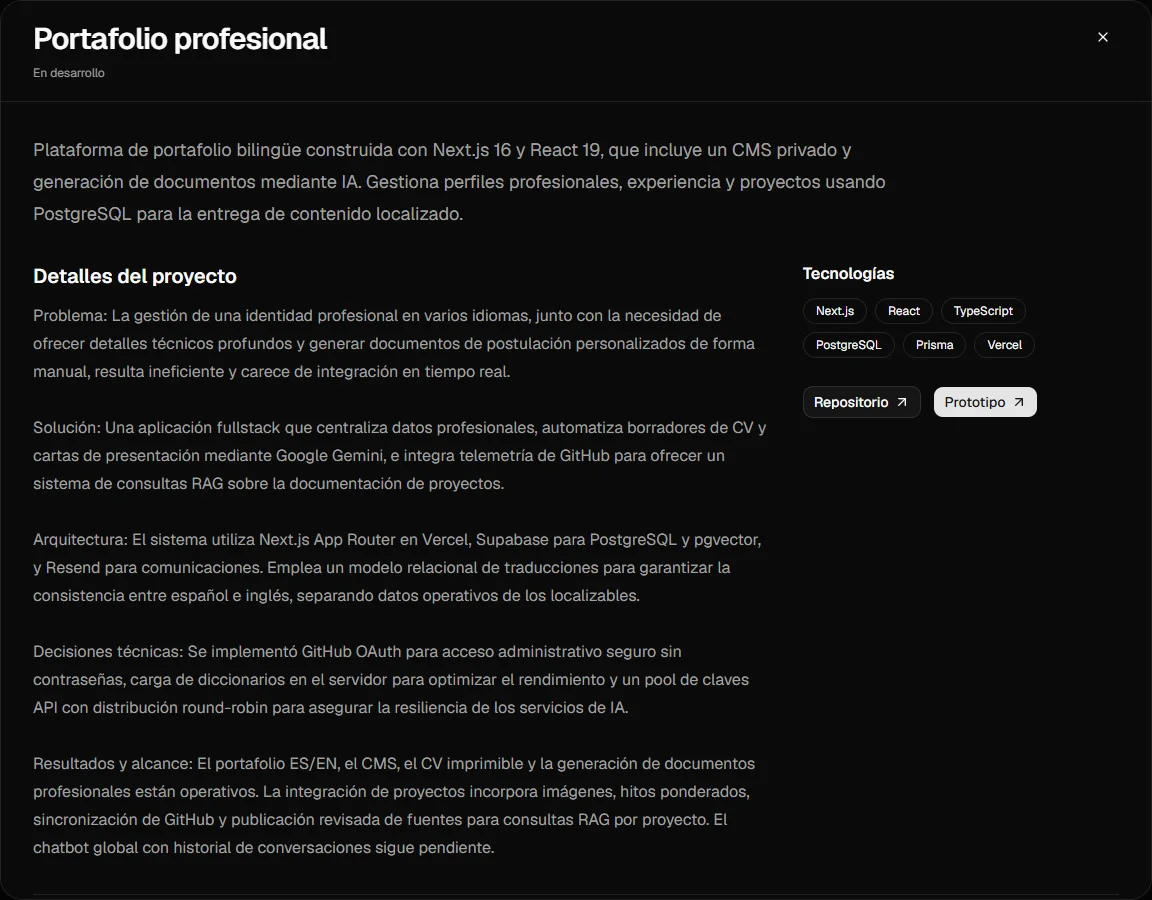
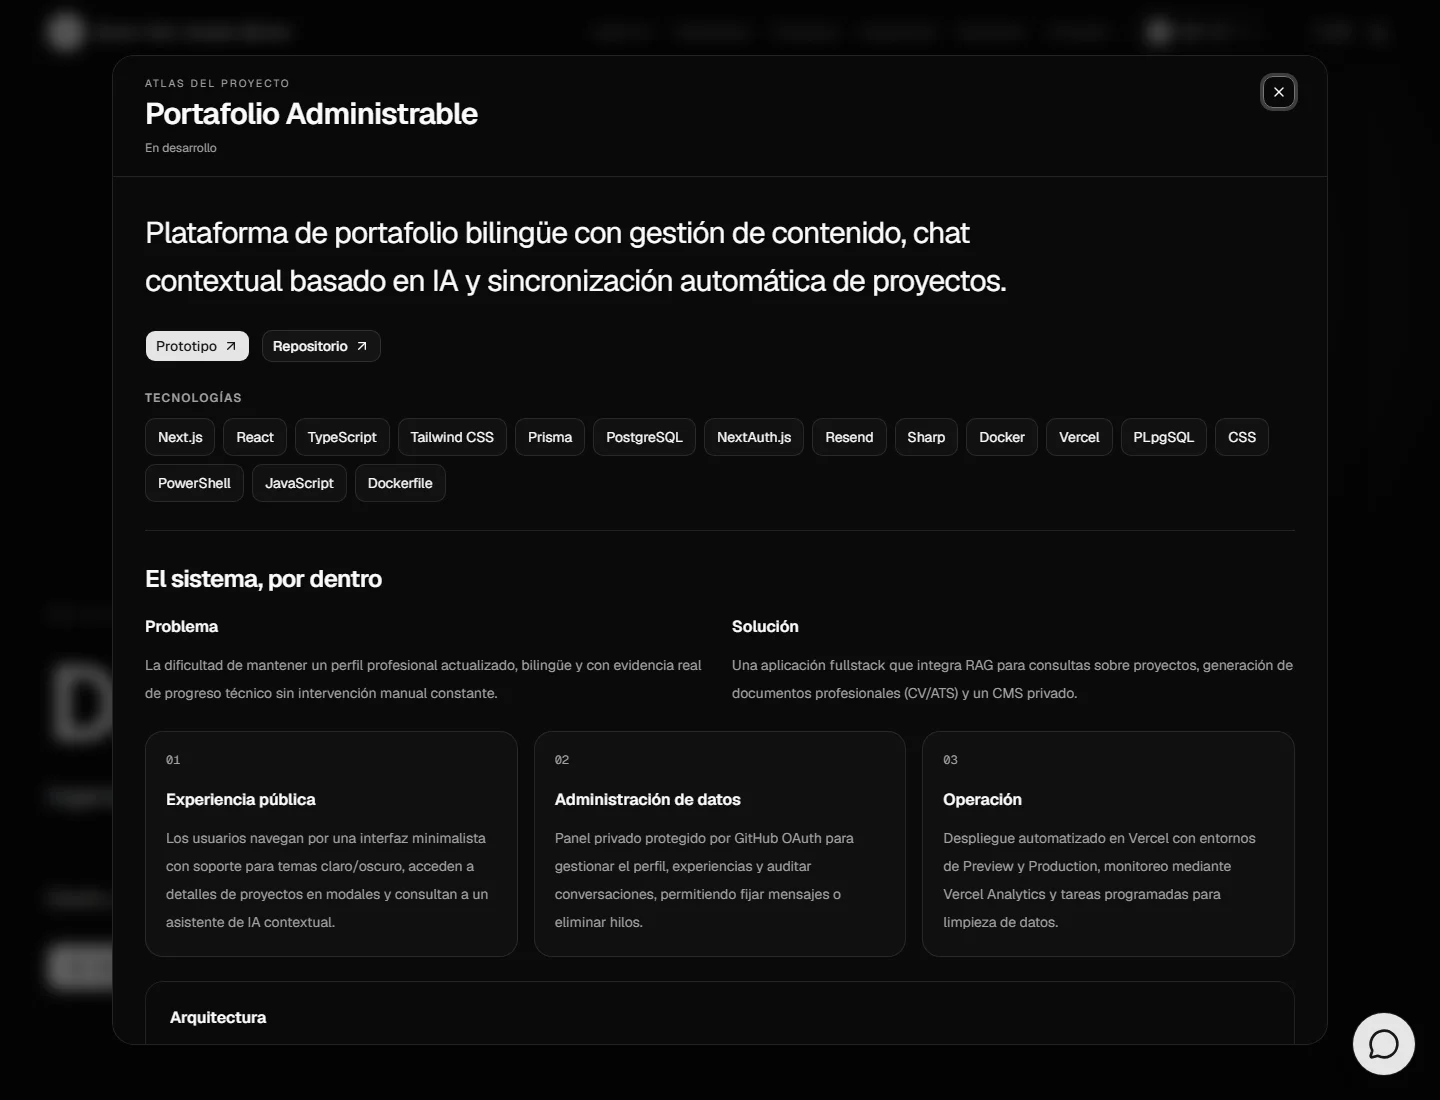
fix: show only documentary chat citations and refresh portfolio captures

diff --git a/src/components/portfolio/project-dialog-card.tsx b/src/components/portfolio/project-dialog-card.tsx
@@ -10,13 +10,12 @@ import type { Locale } from "@/i18n/config";
 import { projectIntegrationCopy } from "@/i18n/project-integration";
 import { projectAtlasCopy } from "@/i18n/project-atlas";
 import { disclosureLabels } from "@/i18n/project-disclosure";
-import { type RepositoryAsset, type ProjectMilestones, type ProjectNarrative } from "@/lib/projects/schemas";
+import { type RepositoryAsset } from "@/lib/projects/schemas";
+import type { PublicProjectExtras } from "@/data/project-knowledge";
 import type { ProjectCopy } from "./projects-section";
 import { useSiteChat } from "@/components/chat/site-chat-context";
 
-type Extras = { assets: RepositoryAsset[]; milestones: ProjectMilestones; progressPct: number | null; sources: Array<{ path: string; sourceUrl: string }>; indexed: boolean; narrative: ProjectNarrative | null; managed?: boolean };
-
-export function ProjectDialogCard({ project, extra, copy, locale }: { project: ProjectDto; extra?: Extras; copy: ProjectCopy; locale: Locale }) {
+export function ProjectDialogCard({ project, extra, copy, locale }: { project: ProjectDto; extra?: PublicProjectExtras; copy: ProjectCopy; locale: Locale }) {
   const labels = projectIntegrationCopy[locale];
   const atlas = projectAtlasCopy[locale];
   const narrative = extra?.narrative?.[locale];
@@ -66,6 +65,7 @@ export function ProjectDialogCard({ project, extra, copy, locale }: { project: P
           </div>
           <div data-project-scroll className="min-h-0 flex-1 overflow-y-auto overscroll-contain p-5 pb-24 sm:p-8 sm:pb-24">
             <Dialog.Description className="max-w-4xl font-heading text-2xl leading-relaxed tracking-tight sm:text-3xl">{project.summary}</Dialog.Description>
+            {extra?.publishedAt && <p className="mt-3 text-xs text-muted-foreground">{locale === "es" ? "Contenido sincronizado" : "Content synchronized"} · <time dateTime={extra.publishedAt}>{new Intl.DateTimeFormat(locale, { dateStyle: "medium", timeZone: "UTC" }).format(new Date(extra.publishedAt))}</time></p>}
             <div className="mt-6 flex flex-wrap gap-3">{project.demoUrl && <a href={project.demoUrl} target="_blank" rel="noreferrer" className={buttonVariants()}>{copy.prototype}<ArrowUpRightIcon aria-hidden="true" /><span className="sr-only">{copy.newTab}</span></a>}{project.repositoryUrl && <a href={project.repositoryUrl} target="_blank" rel="noreferrer" className={buttonVariants({ variant: "outline" })}>{copy.repository}<ArrowUpRightIcon aria-hidden="true" /><span className="sr-only">{copy.newTab}</span></a>}</div>
             {project.techStack.length > 0 && <section className="mt-7 border-b border-border pb-7"><h3 className="text-xs font-semibold uppercase tracking-widest text-muted-foreground">{copy.technologies}</h3><ul className="mt-3 flex flex-wrap gap-2">{project.techStack.map((technology) => <li key={technology} className="rounded-lg border border-border bg-muted/30 px-3 py-2 text-sm">{technology}</li>)}</ul></section>}
             <div className="mt-8 space-y-8">

diff --git a/src/lib/chat/answer.ts b/src/lib/chat/answer.ts
@@ -168,7 +168,7 @@ export async function generateChatAnswer(input: ChatInput, history: History) {
   const contents: FunctionContent[] = [{ role: "user", parts: [{ text: JSON.stringify({ message: input.message, history, viewing: input.context, projects: catalog.map((p) => ({ slug: p.slug, name: p.translations[0]?.name })) }) }] }];
   for (let round = 0; round < 4; round++) {
     if (version && version !== await publicationVersion()) throw new Error("Public policy changed");
-    const model = await requestChatFunctions(`${instruction}\nPublic interactive functions can also prepare contact forms, navigate sections, switch language and select theme. Use prepare_contact for requests to send the owner a message, with only visitor-supplied details. Preparing a contact action does not send mail: the embedded form reports the actual result after submission. Never claim actions have executed until their results are available. Use get_cv mode print for download requests.`, contents, declarations, round === 3);
+    const model = await requestChatFunctions(`${instruction}\nReturn actionIds only when the visitor asks to open, navigate, download, contact or change something, or explicitly requests a link. Do not attach navigation buttons to greetings, acknowledgements or purely informational answers. Cite only sources actually used to support factual claims; sourceIds may be empty for conversational replies. Internal profile and site records ground the answer but are not displayed as documentary citation links.\nPublic interactive functions can also prepare contact forms, navigate sections, switch language and select theme. Use prepare_contact for requests to send the owner a message, with only visitor-supplied details. Preparing a contact action does not send mail: the embedded form reports the actual result after submission. Never claim actions have executed until their results are available. Use get_cv mode print for download requests.`, contents, declarations, round === 3);
     const calls = model.parts.flatMap((part) => part.functionCall ? [part.functionCall] : []);
     const final = calls.length === 1 && calls[0].name === "respond" ? finalSchema.safeParse(calls[0].args) : null;
     if (final?.success) {

diff --git a/src/data/project-knowledge.ts b/src/data/project-knowledge.ts
@@ -4,9 +4,20 @@ import { getPrisma } from "@/lib/prisma";
 import { projectSnapshotSchema, milestoneProgress, EMBEDDING_MODEL } from "@/lib/projects/schemas";
 import { disclosurePolicies } from "./project-disclosure";
 import { canPublish, canUsePublicSources } from "@/lib/projects/disclosure";
-import type { RepositoryAsset } from "@/lib/projects/schemas";
+import type { RepositoryAsset, ProjectMilestones, ProjectNarrative } from "@/lib/projects/schemas";
 
-export async function getPublicProjectExtras(slugs: string[]) {
+export type PublicProjectExtras = {
+  assets: RepositoryAsset[];
+  milestones: ProjectMilestones;
+  managed?: boolean;
+  narrative: ProjectNarrative | null;
+  progressPct: number | null;
+  sources: Array<{ path: string; sourceUrl: string }>;
+  indexed: boolean;
+  publishedAt?: string | null;
+};
+
+export async function getPublicProjectExtras(slugs: string[]): Promise<Record<string, PublicProjectExtras>> {
   const policies = new Map((await disclosurePolicies()).map((row) => [row.slug, row.policy]));
   try {
     const projects = await getPrisma().project.findMany({
@@ -23,6 +34,7 @@ export async function getPublicProjectExtras(slugs: string[]) {
       const milestones = snapshot.success && (!policy || policy.fields.milestones) ? snapshot.data.milestones.map((milestone) => !policy || policy.fields.sources ? milestone : { ...milestone, evidence: "", assessment: milestone.assessment ? { ...milestone.assessment, citations: [] } : undefined }) : [];
       return [project.slug, { assets: [...approvedAssets, ...(snapshot.success && (!policy || policy.fields.media) ? snapshot.data.assets : [])], milestones,
         managed: Boolean(project.integration),
+        publishedAt: project.knowledge[0]?.publishedAt?.toISOString() ?? null,
         narrative: snapshot.success ? { es: snapshot.data.es, en: snapshot.data.en } : null,
         progressPct: milestoneProgress(milestones), sources: !policy || policy.fields.sources ? project.knowledge[0]?.chunks ?? [] : [],
         indexed: project.knowledge.length > 0 && Boolean(project.integration?.enabled) }];

diff --git a/src/components/chat/chat-widget.tsx b/src/components/chat/chat-widget.tsx
@@ -11,6 +11,7 @@ import { chatCopy } from "@/i18n/chat";
 import type { Locale } from "@/i18n/config";
 import type { ChatInput, ChatSessionDto, ChatTurnDto } from "@/lib/chat/schemas";
 import { useSiteChat } from "./site-chat-context";
+import { chatCitations } from "@/lib/chat/citations";
 
 export function ChatWidget({ locale }: { locale: Locale }) {
   const copy = chatCopy[locale];
@@ -143,7 +144,7 @@ export function ChatWidget({ locale }: { locale: Locale }) {
                 }
               }} className="rounded-lg border border-border bg-background px-3 py-2 text-sm font-medium hover:bg-muted focus-visible:outline-none focus-visible:ring-2 focus-visible:ring-ring">{source.title}</Link>;
             })}</div>}
-            {message.sources.some((source) => !source.action) && <ul aria-label={copy.sources} className="mt-2 flex flex-wrap gap-2 text-xs">{message.sources.filter((source, index, sources) => !source.action && sources.findIndex((s) => !s.action && s.url === source.url) === index).map((source) => <li key={source.id}><a href={source.url} target="_blank" rel="noreferrer" className="break-all underline underline-offset-4">{source.title}</a></li>)}</ul>}
+            {chatCitations(message.sources).length > 0 && <ul aria-label={copy.sources} className="mt-2 flex flex-wrap gap-2 text-xs">{chatCitations(message.sources).map((source) => <li key={source.id}><a href={source.url} target="_blank" rel="noreferrer" className="break-all underline underline-offset-4">{source.title}</a></li>)}</ul>}
           </div>)}
             {turn.status === "FAILED" && <Button variant="ghost" size="sm" disabled={pending || waiting} onClick={() => retry(turn)}><RotateCcwIcon />{copy.retry}</Button>}
           </div>)}</div>

diff --git a/src/data/project-knowledge.test.ts b/src/data/project-knowledge.test.ts
@@ -7,7 +7,7 @@ import { getPublicProjectExtras } from "./project-knowledge";
 const text = { summary: "A published project summary.", problem: "A published problem.", solution: "A published solution.", architecture: "A published architecture.", decisions: "Published decisions.", results: "Published results." };
 const published = [{ id: "published", title: { es: "Publicado", en: "Published" }, weight: 1, completed: true, evidence: "" }];
 function row(repositoryFullName: string) {
-  return { slug: "portfolio", integration: { enabled: true }, knowledge: [{ id: "corpus", chunks: [], narrative: {
+  return { slug: "portfolio", integration: { enabled: true }, knowledge: [{ id: "corpus", publishedAt: new Date("2026-10-15T22:00:00Z"), chunks: [], narrative: {
     automatic: true, names: { es: "Proyecto", en: "Project" }, es: text, en: text, assets: [], milestones: published,
     metadata: { repositoryId: "1", repositoryFullName, branch: "main", demoUrl: null, techStack: [], status: "COMPLETED", sourcePaths: [] },
   } }] };
@@ -19,5 +19,6 @@ describe("service-owned portfolio milestones", () => {
     const { portfolio } = await getPublicProjectExtras(["portfolio"]);
     expect(portfolio.milestones).toEqual(published);
     expect(portfolio.progressPct).toBe(100);
+    expect(portfolio.publishedAt).toBe("2026-10-15T22:00:00.000Z");
   });
 });

diff --git a/src/lib/chat/citations.test.ts b/src/lib/chat/citations.test.ts
@@ -1,0 +1,14 @@
+import { describe, expect, it } from "vitest";
+import { chatCitations } from "./citations";
+
+describe("visible chat evidence", () => {
+  it("hides internal grounding links while retaining and deduplicating real documentary citations", () => {
+    const source = { title: "Source", url: "https://example.com" };
+    expect(chatCitations([
+      { ...source, id: "person:experience" }, { ...source, id: "site:chat" }, { ...source, id: "project:portfolio" },
+      { ...source, id: "action:cv", action: "cv" },
+      { ...source, id: "chunk:first" }, { ...source, id: "chunk:duplicate" },
+    ])).toEqual([{ ...source, id: "chunk:first" }]);
+    expect(chatCitations([{ ...source, id: "site:chat" }])).toEqual([]);
+  });
+});

diff --git a/src/lib/chat/citations.ts b/src/lib/chat/citations.ts
@@ -1,0 +1,12 @@
+import type { ChatSource } from "./schemas";
+
+// Profile/site records ground the answer internally, but are not documentary
+// citations. Keep the same rule for existing conversations without rewriting them.
+export function chatCitations(sources: ChatSource[]) {
+  const seen = new Set<string>();
+  return sources.filter((source) => {
+    if (source.action || !source.id.startsWith("chunk:") || seen.has(source.url)) return false;
+    seen.add(source.url);
+    return true;
+  });
+}

diff --git a/docs/portfolio/README.md b/docs/portfolio/README.md
@@ -34,11 +34,12 @@ plantilla no se usan como portada. El diagrama local obsoleto y su directorio se
 Sin imágenes válidas, la card muestra el texto y las tecnologías sin una imagen
 inventada. Diagramas vectoriales pueden exportarse como PNG/WebP en `diagrams/`.
 
-Las capturas iniciales `interface/cover.webp` y `features/project-detail.webp` se
-obtuvieron de la aplicación local en modo de solo lectura, con su contenido público
-real, durante la validación del modal. No son ilustraciones generadas ni capturas
-del CMS privado. Reflejan el contenido visible en ese momento; sincronizaciones
-posteriores pueden actualizar los textos del proyecto.
+Las capturas `interface/cover.webp` (1440×1000) y `features/project-detail.webp`
+(1440×1100) se actualizaron el 15 de octubre de 2026 desde Production, versión
+`17f173a`, mediante Chromium headless. Muestran la portada y el atlas con las áreas
+de experiencia pública, administración de datos y operación. No son ilustraciones
+generadas ni capturas del CMS privado. Reflejan el contenido visible en ese momento;
+sincronizaciones posteriores pueden actualizar los textos del proyecto.
 
 No se requieren descripciones manuales. Gemini analiza los píxeles y devuelve
 texto alternativo y descripción visual ES/EN. El archivo sigue en GitHub; solo se
